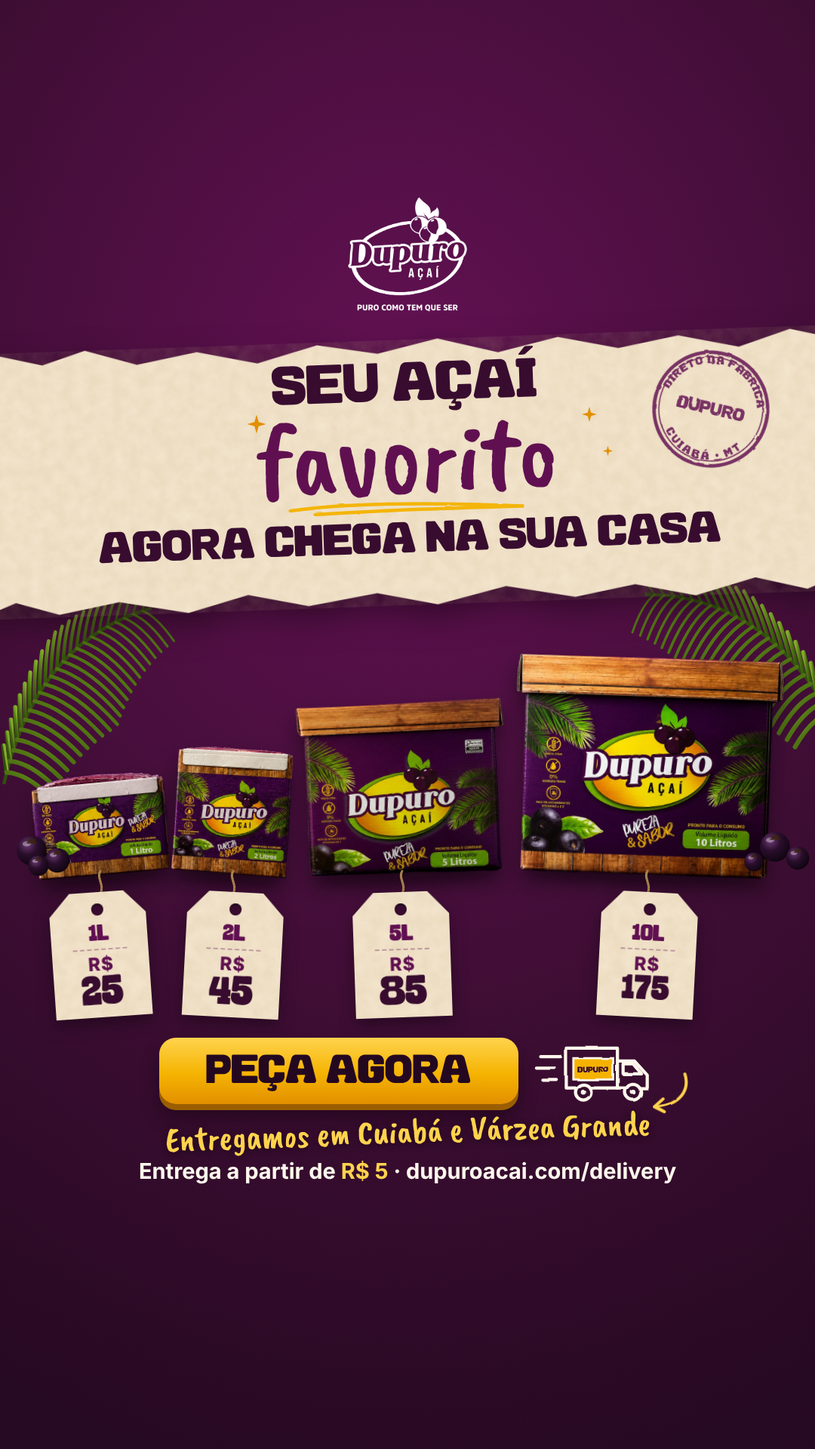
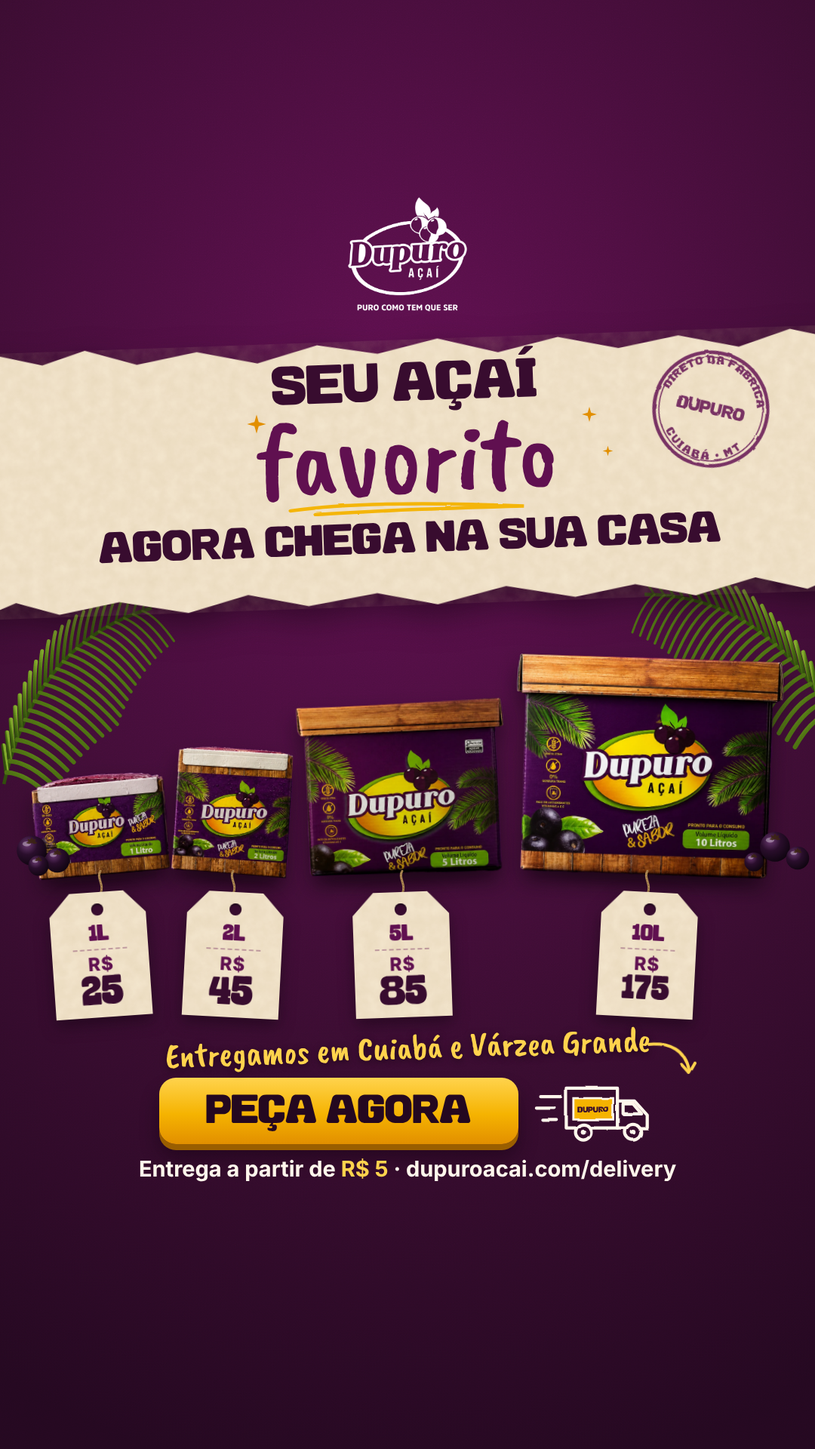
Anúncio v2: frase da área de entrega acima do 'Peça agora', seta até o caminhão
Claude-Session: https://claude.ai/code/session_01FD3K2dUiQKyTzg2suxj9tU

Changed region(s): [[0.1833, 0.6875, 0.8556, 0.8125]]

diff --git a/marketing/anuncios/delivery-v2/story.html b/marketing/anuncios/delivery-v2/story.html
@@ -20,7 +20,7 @@
  </g></svg>
 <svg class="folha" style="left:-30px;top:770px;width:340px;height:340px;transform:rotate(-8deg) scaleX(1)" viewBox="-20 -20 300 300"><defs><linearGradient id="gf" x1="0" y1="1" x2="1" y2="0"><stop offset="0" stop-color="#2F4A0C"/><stop offset=".55" stop-color="#4D7012"/><stop offset="1" stop-color="#7FA82B"/></linearGradient></defs><path d="M0,200 Q60,40 200,20" stroke="#2F4A0C" stroke-width="4" fill="none"/><path d="M5.1,186.9 Q5.5,166.6 5.8,155.4" stroke="url(#gf)" stroke-width="5.4" fill="none" stroke-linecap="round"/><path d="M5.1,186.9 Q27.8,191.5 50.5,221.2" stroke="url(#gf)" stroke-width="5.4" fill="none" stroke-linecap="round"/><path d="M10.6,174.3 Q11.3,152.4 12.1,140.7" stroke="url(#gf)" stroke-width="5.2" fill="none" stroke-linecap="round"/><path d="M10.6,174.3 Q34.6,179.9 58.7,211.5" stroke="url(#gf)" stroke-width="5.2" fill="none" stroke-linecap="round"/><path d="M16.2,162.2 Q17.4,138.7 18.6,126.5" stroke="url(#gf)" stroke-width="5.1" fill="none" stroke-linecap="round"/><path d="M16.2,162.2 Q41.6,168.7 67.0,202.5" stroke="url(#gf)" stroke-width="5.1" fill="none" stroke-linecap="round"/><path d="M22.2,150.6 Q23.9,125.5 25.6,112.8" stroke="url(#gf)" stroke-width="5.0" fill="none" stroke-linecap="round"/><path d="M22.2,150.6 Q48.9,158.1 75.6,194.0" stroke="url(#gf)" stroke-width="5.0" fill="none" stroke-linecap="round"/><path d="M28.5,139.4 Q30.7,112.8 32.9,99.7" stroke="url(#gf)" stroke-width="4.9" fill="none" stroke-linecap="round"/><path d="M28.5,139.4 Q56.5,148.0 84.5,186.0" stroke="url(#gf)" stroke-width="4.9" fill="none" stroke-linecap="round"/><path d="M35.0,128.8 Q37.8,100.6 40.6,87.0" stroke="url(#gf)" stroke-width="4.8" fill="none" stroke-linecap="round"/><path d="M35.0,128.8 Q64.3,138.4 93.5,178.7" stroke="url(#gf)" stroke-width="4.8" fill="none" stroke-linecap="round"/><path d="M41.8,118.6 Q45.3,88.8 48.7,74.9" stroke="url(#gf)" stroke-width="4.6" fill="none" stroke-linecap="round"/><path d="M41.8,118.6 Q72.3,129.4 102.8,171.9" stroke="url(#gf)" stroke-width="4.6" fill="none" stroke-linecap="round"/><path d="M48.9,108.9 Q53.0,77.6 57.1,63.2" stroke="url(#gf)" stroke-width="4.5" fill="none" stroke-linecap="round"/><path d="M48.9,108.9 Q80.6,120.8 112.4,165.6" stroke="url(#gf)" stroke-width="4.5" fill="none" stroke-linecap="round"/><path d="M56.2,99.7 Q61.1,66.9 65.9,52.1" stroke="url(#gf)" stroke-width="4.4" fill="none" stroke-linecap="round"/><path d="M56.2,99.7 Q89.2,112.8 122.1,159.9" stroke="url(#gf)" stroke-width="4.4" fill="none" stroke-linecap="round"/><path d="M63.9,91.0 Q69.5,56.7 75.1,41.5" stroke="url(#gf)" stroke-width="4.2" fill="none" stroke-linecap="round"/><path d="M63.9,91.0 Q98.0,105.3 132.0,154.8" stroke="url(#gf)" stroke-width="4.2" fill="none" stroke-linecap="round"/><path d="M71.8,82.7 Q78.1,47.6 84.4,32.2" stroke="url(#gf)" stroke-width="4.1" fill="none" stroke-linecap="round"/><path d="M71.8,82.7 Q106.5,98.1 141.1,149.2" stroke="url(#gf)" stroke-width="4.1" fill="none" stroke-linecap="round"/><path d="M80.0,75.0 Q86.6,41.5 93.2,26.7" stroke="url(#gf)" stroke-width="4.0" fill="none" stroke-linecap="round"/><path d="M80.0,75.0 Q113.0,90.0 145.9,139.7" stroke="url(#gf)" stroke-width="4.0" fill="none" stroke-linecap="round"/><path d="M88.5,67.7 Q95.3,35.9 102.2,21.6" stroke="url(#gf)" stroke-width="3.9" fill="none" stroke-linecap="round"/><path d="M88.5,67.7 Q119.8,82.4 151.1,130.7" stroke="url(#gf)" stroke-width="3.9" fill="none" stroke-linecap="round"/><path d="M97.2,61.0 Q104.3,30.8 111.3,17.1" stroke="url(#gf)" stroke-width="3.8" fill="none" stroke-linecap="round"/><path d="M97.2,61.0 Q126.9,75.3 156.6,122.0" stroke="url(#gf)" stroke-width="3.8" fill="none" stroke-linecap="round"/><path d="M106.2,54.7 Q113.4,26.2 120.6,13.0" stroke="url(#gf)" stroke-width="3.6" fill="none" stroke-linecap="round"/><path d="M106.2,54.7 Q134.3,68.6 162.4,113.7" stroke="url(#gf)" stroke-width="3.6" fill="none" stroke-linecap="round"/><path d="M115.6,48.9 Q122.9,22.1 130.2,9.4" stroke="url(#gf)" stroke-width="3.5" fill="none" stroke-linecap="round"/><path d="M115.6,48.9 Q142.0,62.3 168.5,105.8" stroke="url(#gf)" stroke-width="3.5" fill="none" stroke-linecap="round"/><path d="M125.1,43.6 Q132.5,18.4 139.9,6.3" stroke="url(#gf)" stroke-width="3.4" fill="none" stroke-linecap="round"/><path d="M125.1,43.6 Q150.0,56.5 174.9,98.4" stroke="url(#gf)" stroke-width="3.4" fill="none" stroke-linecap="round"/><path d="M135.0,38.8 Q142.4,15.3 149.7,3.7" stroke="url(#gf)" stroke-width="3.2" fill="none" stroke-linecap="round"/><path d="M135.0,38.8 Q158.3,51.1 181.6,91.3" stroke="url(#gf)" stroke-width="3.2" fill="none" stroke-linecap="round"/><path d="M145.1,34.4 Q152.5,12.6 159.8,1.5" stroke="url(#gf)" stroke-width="3.1" fill="none" stroke-linecap="round"/><path d="M145.1,34.4 Q166.9,46.1 188.7,84.6" stroke="url(#gf)" stroke-width="3.1" fill="none" stroke-linecap="round"/><path d="M155.6,30.6 Q162.8,10.4 170.0,-0.1" stroke="url(#gf)" stroke-width="3.0" fill="none" stroke-linecap="round"/><path d="M155.6,30.6 Q175.8,41.6 196.0,78.4" stroke="url(#gf)" stroke-width="3.0" fill="none" stroke-linecap="round"/><path d="M166.2,27.2 Q173.4,8.6 180.5,-1.4" stroke="url(#gf)" stroke-width="2.9" fill="none" stroke-linecap="round"/><path d="M166.2,27.2 Q185.0,37.6 203.8,72.5" stroke="url(#gf)" stroke-width="2.9" fill="none" stroke-linecap="round"/><path d="M177.2,24.3 Q184.2,7.4 191.1,-2.1" stroke="url(#gf)" stroke-width="2.8" fill="none" stroke-linecap="round"/><path d="M177.2,24.3 Q194.5,34.0 211.8,67.1" stroke="url(#gf)" stroke-width="2.8" fill="none" stroke-linecap="round"/><path d="M188.5,21.9 Q195.2,6.6 201.9,-2.4" stroke="url(#gf)" stroke-width="2.6" fill="none" stroke-linecap="round"/><path d="M188.5,21.9 Q204.3,30.8 220.2,62.0" stroke="url(#gf)" stroke-width="2.6" fill="none" stroke-linecap="round"/></svg><svg class="folha" style="left:780px;top:730px;width:340px;height:340px;transform:rotate(-8deg) scaleX(-1)" viewBox="-20 -20 300 300"><defs><linearGradient id="gf" x1="0" y1="1" x2="1" y2="0"><stop offset="0" stop-color="#2F4A0C"/><stop offset=".55" stop-color="#4D7012"/><stop offset="1" stop-color="#7FA82B"/></linearGradient></defs><path d="M0,200 Q60,40 200,20" stroke="#2F4A0C" stroke-width="4" fill="none"/><path d="M5.1,186.9 Q5.5,166.6 5.8,155.4" stroke="url(#gf)" stroke-width="5.4" fill="none" stroke-linecap="round"/><path d="M5.1,186.9 Q27.8,191.5 50.5,221.2" stroke="url(#gf)" stroke-width="5.4" fill="none" stroke-linecap="round"/><path d="M10.6,174.3 Q11.3,152.4 12.1,140.7" stroke="url(#gf)" stroke-width="5.2" fill="none" stroke-linecap="round"/><path d="M10.6,174.3 Q34.6,179.9 58.7,211.5" stroke="url(#gf)" stroke-width="5.2" fill="none" stroke-linecap="round"/><path d="M16.2,162.2 Q17.4,138.7 18.6,126.5" stroke="url(#gf)" stroke-width="5.1" fill="none" stroke-linecap="round"/><path d="M16.2,162.2 Q41.6,168.7 67.0,202.5" stroke="url(#gf)" stroke-width="5.1" fill="none" stroke-linecap="round"/><path d="M22.2,150.6 Q23.9,125.5 25.6,112.8" stroke="url(#gf)" stroke-width="5.0" fill="none" stroke-linecap="round"/><path d="M22.2,150.6 Q48.9,158.1 75.6,194.0" stroke="url(#gf)" stroke-width="5.0" fill="none" stroke-linecap="round"/><path d="M28.5,139.4 Q30.7,112.8 32.9,99.7" stroke="url(#gf)" stroke-width="4.9" fill="none" stroke-linecap="round"/><path d="M28.5,139.4 Q56.5,148.0 84.5,186.0" stroke="url(#gf)" stroke-width="4.9" fill="none" stroke-linecap="round"/><path d="M35.0,128.8 Q37.8,100.6 40.6,87.0" stroke="url(#gf)" stroke-width="4.8" fill="none" stroke-linecap="round"/><path d="M35.0,128.8 Q64.3,138.4 93.5,178.7" stroke="url(#gf)" stroke-width="4.8" fill="none" stroke-linecap="round"/><path d="M41.8,118.6 Q45.3,88.8 48.7,74.9" stroke="url(#gf)" stroke-width="4.6" fill="none" stroke-linecap="round"/><path d="M41.8,118.6 Q72.3,129.4 102.8,171.9" stroke="url(#gf)" stroke-width="4.6" fill="none" stroke-linecap="round"/><path d="M48.9,108.9 Q53.0,77.6 57.1,63.2" stroke="url(#gf)" stroke-width="4.5" fill="none" stroke-linecap="round"/><path d="M48.9,108.9 Q80.6,120.8 112.4,165.6" stroke="url(#gf)" stroke-width="4.5" fill="none" stroke-linecap="round"/><path d="M56.2,99.7 Q61.1,66.9 65.9,52.1" stroke="url(#gf)" stroke-width="4.4" fill="none" stroke-linecap="round"/><path d="M56.2,99.7 Q89.2,112.8 122.1,159.9" stroke="url(#gf)" stroke-width="4.4" fill="none" stroke-linecap="round"/><path d="M63.9,91.0 Q69.5,56.7 75.1,41.5" stroke="url(#gf)" stroke-width="4.2" fill="none" stroke-linecap="round"/><path d="M63.9,91.0 Q98.0,105.3 132.0,154.8" stroke="url(#gf)" stroke-width="4.2" fill="none" stroke-linecap="round"/><path d="M71.8,82.7 Q78.1,47.6 84.4,32.2" stroke="url(#gf)" stroke-width="4.1" fill="none" stroke-linecap="round"/><path d="M71.8,82.7 Q106.5,98.1 141.1,149.2" stroke="url(#gf)" stroke-width="4.1" fill="none" stroke-linecap="round"/><path d="M80.0,75.0 Q86.6,41.5 93.2,26.7" stroke="url(#gf)" stroke-width="4.0" fill="none" stroke-linecap="round"/><path d="M80.0,75.0 Q113.0,90.0 145.9,139.7" stroke="url(#gf)" stroke-width="4.0" fill="none" stroke-linecap="round"/><path d="M88.5,67.7 Q95.3,35.9 102.2,21.6" stroke="url(#gf)" stroke-width="3.9" fill="none" stroke-linecap="round"/><path d="M88.5,67.7 Q119.8,82.4 151.1,130.7" stroke="url(#gf)" stroke-width="3.9" fill="none" stroke-linecap="round"/><path d="M97.2,61.0 Q104.3,30.8 111.3,17.1" stroke="url(#gf)" stroke-width="3.8" fill="none" stroke-linecap="round"/><path d="M97.2,61.0 Q126.9,75.3 156.6,122.0" stroke="url(#gf)" stroke-width="3.8" fill="none" stroke-linecap="round"/><path d="M106.2,54.7 Q113.4,26.2 120.6,13.0" stroke="url(#gf)" stroke-width="3.6" fill="none" stroke-linecap="round"/><path d="M106.2,54.7 Q134.3,68.6 162.4,113.7" stroke="url(#gf)" stroke-width="3.6" fill="none" stroke-linecap="round"/><path d="M115.6,48.9 Q122.9,22.1 130.2,9.4" stroke="url(#gf)" stroke-width="3.5" fill="none" stroke-linecap="round"/><path d="M115.6,48.9 Q142.0,62.3 168.5,105.8" stroke="url(#gf)" stroke-width="3.5" fill="none" stroke-linecap="round"/><path d="M125.1,43.6 Q132.5,18.4 139.9,6.3" stroke="url(#gf)" stroke-width="3.4" fill="none" stroke-linecap="round"/><path d="M125.1,43.6 Q150.0,56.5 174.9,98.4" stroke="url(#gf)" stroke-width="3.4" fill="none" stroke-linecap="round"/><path d="M135.0,38.8 Q142.4,15.3 149.7,3.7" stroke="url(#gf)" stroke-width="3.2" fill="none" stroke-linecap="round"/><path d="M135.0,38.8 Q158.3,51.1 181.6,91.3" stroke="url(#gf)" stroke-width="3.2" fill="none" stroke-linecap="round"/><path d="M145.1,34.4 Q152.5,12.6 159.8,1.5" stroke="url(#gf)" stroke-width="3.1" fill="none" stroke-linecap="round"/><path d="M145.1,34.4 Q166.9,46.1 188.7,84.6" stroke="url(#gf)" stroke-width="3.1" fill="none" stroke-linecap="round"/><path d="M155.6,30.6 Q162.8,10.4 170.0,-0.1" stroke="url(#gf)" stroke-width="3.0" fill="none" stroke-linecap="round"/><path d="M155.6,30.6 Q175.8,41.6 196.0,78.4" stroke="url(#gf)" stroke-width="3.0" fill="none" stroke-linecap="round"/><path d="M166.2,27.2 Q173.4,8.6 180.5,-1.4" stroke="url(#gf)" stroke-width="2.9" fill="none" stroke-linecap="round"/><path d="M166.2,27.2 Q185.0,37.6 203.8,72.5" stroke="url(#gf)" stroke-width="2.9" fill="none" stroke-linecap="round"/><path d="M177.2,24.3 Q184.2,7.4 191.1,-2.1" stroke="url(#gf)" stroke-width="2.8" fill="none" stroke-linecap="round"/><path d="M177.2,24.3 Q194.5,34.0 211.8,67.1" stroke="url(#gf)" stroke-width="2.8" fill="none" stroke-linecap="round"/><path d="M188.5,21.9 Q195.2,6.6 201.9,-2.4" stroke="url(#gf)" stroke-width="2.6" fill="none" stroke-linecap="round"/><path d="M188.5,21.9 Q204.3,30.8 220.2,62.0" stroke="url(#gf)" stroke-width="2.6" fill="none" stroke-linecap="round"/></svg><svg class="fruto" style="left:20px;top:1105px;width:44px;height:44px" viewBox="0 0 40 40"><defs><radialGradient id="gb" cx=".35" cy=".3" r=".75"><stop offset="0" stop-color="#6B3A72"/><stop offset=".45" stop-color="#2A0E2C"/><stop offset="1" stop-color="#0E040F"/></radialGradient></defs><circle cx="20" cy="20" r="18" fill="url(#gb)"/><ellipse cx="14" cy="12" rx="5" ry="3" fill="#fff" opacity=".35"/><path d="M20,4 l2,3 l3,-1 l-1,3 l3,2 l-4,1 l-3,-1 l-3,1 l-4,-1 l3,-2 l-1,-3 l3,1 z" fill="#3B2410" opacity=".85"/></svg><svg class="fruto" style="left:58px;top:1122px;width:36px;height:36px" viewBox="0 0 40 40"><defs><radialGradient id="gb" cx=".35" cy=".3" r=".75"><stop offset="0" stop-color="#6B3A72"/><stop offset=".45" stop-color="#2A0E2C"/><stop offset="1" stop-color="#0E040F"/></radialGradient></defs><circle cx="20" cy="20" r="18" fill="url(#gb)"/><ellipse cx="14" cy="12" rx="5" ry="3" fill="#fff" opacity=".35"/><path d="M20,4 l2,3 l3,-1 l-1,3 l3,2 l-4,1 l-3,-1 l-3,1 l-4,-1 l3,-2 l-1,-3 l3,1 z" fill="#3B2410" opacity=".85"/></svg><svg class="fruto" style="left:36px;top:1132px;width:30px;height:30px" viewBox="0 0 40 40"><defs><radialGradient id="gb" cx=".35" cy=".3" r=".75"><stop offset="0" stop-color="#6B3A72"/><stop offset=".45" stop-color="#2A0E2C"/><stop offset="1" stop-color="#0E040F"/></radialGradient></defs><circle cx="20" cy="20" r="18" fill="url(#gb)"/><ellipse cx="14" cy="12" rx="5" ry="3" fill="#fff" opacity=".35"/><path d="M20,4 l2,3 l3,-1 l-1,3 l3,2 l-4,1 l-3,-1 l-3,1 l-4,-1 l3,-2 l-1,-3 l3,1 z" fill="#3B2410" opacity=".85"/></svg><svg class="fruto" style="left:1005px;top:1100px;width:44px;height:44px" viewBox="0 0 40 40"><defs><radialGradient id="gb" cx=".35" cy=".3" r=".75"><stop offset="0" stop-color="#6B3A72"/><stop offset=".45" stop-color="#2A0E2C"/><stop offset="1" stop-color="#0E040F"/></radialGradient></defs><circle cx="20" cy="20" r="18" fill="url(#gb)"/><ellipse cx="14" cy="12" rx="5" ry="3" fill="#fff" opacity=".35"/><path d="M20,4 l2,3 l3,-1 l-1,3 l3,2 l-4,1 l-3,-1 l-3,1 l-4,-1 l3,-2 l-1,-3 l3,1 z" fill="#3B2410" opacity=".85"/></svg><svg class="fruto" style="left:1040px;top:1120px;width:34px;height:34px" viewBox="0 0 40 40"><defs><radialGradient id="gb" cx=".35" cy=".3" r=".75"><stop offset="0" stop-color="#6B3A72"/><stop offset=".45" stop-color="#2A0E2C"/><stop offset="1" stop-color="#0E040F"/></radialGradient></defs><circle cx="20" cy="20" r="18" fill="url(#gb)"/><ellipse cx="14" cy="12" rx="5" ry="3" fill="#fff" opacity=".35"/><path d="M20,4 l2,3 l3,-1 l-1,3 l3,2 l-4,1 l-3,-1 l-3,1 l-4,-1 l3,-2 l-1,-3 l3,1 z" fill="#3B2410" opacity=".85"/></svg><svg class="fruto" style="left:985px;top:1128px;width:28px;height:28px" viewBox="0 0 40 40"><defs><radialGradient id="gb" cx=".35" cy=".3" r=".75"><stop offset="0" stop-color="#6B3A72"/><stop offset=".45" stop-color="#2A0E2C"/><stop offset="1" stop-color="#0E040F"/></radialGradient></defs><circle cx="20" cy="20" r="18" fill="url(#gb)"/><ellipse cx="14" cy="12" rx="5" ry="3" fill="#fff" opacity=".35"/><path d="M20,4 l2,3 l3,-1 l-1,3 l3,2 l-4,1 l-3,-1 l-3,1 l-4,-1 l3,-2 l-1,-3 l3,1 z" fill="#3B2410" opacity=".85"/></svg>
 <div class="fila"><div class="item i1"><div class="caixa"><img src="../briefing-delivery/material/caixa-1l-estudio-recorte.webp" alt="Caixa 1 litro"><div class="sombra"></div></div><svg class="barbante" viewBox="0 0 30 40" preserveAspectRatio="none"><path d="M15,0 C 9,12 21,24 15,40" stroke="#B08A55" stroke-width="3" fill="none" stroke-linecap="round"/><path d="M15,0 C 9,12 21,24 15,40" stroke="#7A5A30" stroke-width="1" stroke-dasharray="2 3" fill="none"/></svg><div class="etiqueta"><div class="corpo"></div><svg class="fibra2" xmlns="http://www.w3.org/2000/svg" preserveAspectRatio="none"><filter id="f1"><feTurbulence type="fractalNoise" baseFrequency="0.06" numOctaves="4" seed="5"/><feColorMatrix values="0 0 0 0 0.55  0 0 0 0 0.42  0 0 0 0 0.25  0 0 0 0.55 0"/></filter><rect width="100%" height="100%" filter="url(#f1)"/></svg><div class="furo"></div><div class="preco"><span class="lit">1L</span><span class="rs">R$</span><span class="num">25</span></div></div></div><div class="item i2"><div class="caixa"><img src="../briefing-delivery/material/caixa-2l-estudio-recorte.webp" alt="Caixa 2 litros"><div class="sombra"></div></div><svg class="barbante" viewBox="0 0 30 40" preserveAspectRatio="none"><path d="M15,0 C 9,12 21,24 15,40" stroke="#B08A55" stroke-width="3" fill="none" stroke-linecap="round"/><path d="M15,0 C 9,12 21,24 15,40" stroke="#7A5A30" stroke-width="1" stroke-dasharray="2 3" fill="none"/></svg><div class="etiqueta"><div class="corpo"></div><svg class="fibra2" xmlns="http://www.w3.org/2000/svg" preserveAspectRatio="none"><filter id="f2"><feTurbulence type="fractalNoise" baseFrequency="0.06" numOctaves="4" seed="6"/><feColorMatrix values="0 0 0 0 0.55  0 0 0 0 0.42  0 0 0 0 0.25  0 0 0 0.55 0"/></filter><rect width="100%" height="100%" filter="url(#f2)"/></svg><div class="furo"></div><div class="preco"><span class="lit">2L</span><span class="rs">R$</span><span class="num">45</span></div></div></div><div class="item i5"><div class="caixa"><img src="../briefing-delivery/material/caixa-5l-estudio-recorte.webp" alt="Caixa 5 litros"><div class="sombra"></div></div><svg class="barbante" viewBox="0 0 30 40" preserveAspectRatio="none"><path d="M15,0 C 9,12 21,24 15,40" stroke="#B08A55" stroke-width="3" fill="none" stroke-linecap="round"/><path d="M15,0 C 9,12 21,24 15,40" stroke="#7A5A30" stroke-width="1" stroke-dasharray="2 3" fill="none"/></svg><div class="etiqueta"><div class="corpo"></div><svg class="fibra2" xmlns="http://www.w3.org/2000/svg" preserveAspectRatio="none"><filter id="f5"><feTurbulence type="fractalNoise" baseFrequency="0.06" numOctaves="4" seed="9"/><feColorMatrix values="0 0 0 0 0.55  0 0 0 0 0.42  0 0 0 0 0.25  0 0 0 0.55 0"/></filter><rect width="100%" height="100%" filter="url(#f5)"/></svg><div class="furo"></div><div class="preco"><span class="lit">5L</span><span class="rs">R$</span><span class="num">85</span></div></div></div><div class="item i10"><div class="caixa"><img src="../briefing-delivery/material/caixa-10l-estudio-recorte.webp" alt="Caixa 10 litros"><div class="sombra"></div></div><svg class="barbante" viewBox="0 0 30 40" preserveAspectRatio="none"><path d="M15,0 C 9,12 21,24 15,40" stroke="#B08A55" stroke-width="3" fill="none" stroke-linecap="round"/><path d="M15,0 C 9,12 21,24 15,40" stroke="#7A5A30" stroke-width="1" stroke-dasharray="2 3" fill="none"/></svg><div class="etiqueta"><div class="corpo"></div><svg class="fibra2" xmlns="http://www.w3.org/2000/svg" preserveAspectRatio="none"><filter id="f10"><feTurbulence type="fractalNoise" baseFrequency="0.06" numOctaves="4" seed="14"/><feColorMatrix values="0 0 0 0 0.55  0 0 0 0 0.42  0 0 0 0 0.25  0 0 0 0.55 0"/></filter><rect width="100%" height="100%" filter="url(#f10)"/></svg><div class="furo"></div><div class="preco"><span class="lit">10L</span><span class="rs">R$</span><span class="num tres">175</span></div></div></div></div>
-<div class="rodape"><div class="linha-cta"><span class="cta">Peça agora</span><svg class="caminhao" viewBox="0 0 170 100" xmlns="http://www.w3.org/2000/svg"><defs><filter id="mao2"><feTurbulence type="fractalNoise" baseFrequency="0.035" numOctaves="2" seed="5" result="d"/><feDisplacementMap in="SourceGraphic" in2="d" scale="3.5"/></filter></defs>
+<div class="rodape"><div class="area">Entregamos em Cuiabá e Várzea Grande<svg class="seta" style="right:-62px;top:22px" viewBox="0 0 70 56"><path d="M6,8 C 34,6 54,18 58,44" stroke="#FFD34D" stroke-width="4" fill="none" stroke-linecap="round" filter="url(#mao3)"/><path d="M48,36 L58,48 L66,35" stroke="#FFD34D" stroke-width="4" fill="none" stroke-linecap="round" stroke-linejoin="round" filter="url(#mao3)"/><defs><filter id="mao3"><feTurbulence type="fractalNoise" baseFrequency="0.05" numOctaves="2" seed="11" result="d"/><feDisplacementMap in="SourceGraphic" in2="d" scale="2.5"/></filter></defs></svg></div><div class="linha-cta"><span class="cta">Peça agora</span><svg class="caminhao" viewBox="0 0 170 100" xmlns="http://www.w3.org/2000/svg"><defs><filter id="mao2"><feTurbulence type="fractalNoise" baseFrequency="0.035" numOctaves="2" seed="5" result="d"/><feDisplacementMap in="SourceGraphic" in2="d" scale="3.5"/></filter></defs>
  <g filter="url(#mao2)" fill="none" stroke="#FFF7EC" stroke-width="4.5" stroke-linecap="round" stroke-linejoin="round">
   <path d="M8,30 h28 M2,46 h26 M10,62 h20"/>
   <path d="M44,18 h72 v56 h-72 z"/>
@@ -30,5 +30,5 @@
   <circle cx="68" cy="80" r="3.5" fill="#FFF7EC" stroke="none"/><circle cx="138" cy="80" r="3.5" fill="#FFF7EC" stroke="none"/>
  </g>
  <g filter="url(#mao2)"><path d="M54,32 h56 v30 h-56 z" fill="#F5B301" stroke="#FFF7EC" stroke-width="3"/>
- <text x="82" y="52" text-anchor="middle" font-family="Klinko" font-size="10.5" fill="#380C2F">DUPURO</text></g></svg></div><div class="area">Entregamos em Cuiabá e Várzea Grande<svg class="seta" style="right:-58px;top:-44px" viewBox="0 0 70 56"><path d="M60,4 C 66,26 52,44 22,46" stroke="#FFD34D" stroke-width="4" fill="none" stroke-linecap="round" filter="url(#mao3)"/><path d="M30,36 L18,46 L31,53" stroke="#FFD34D" stroke-width="4" fill="none" stroke-linecap="round" stroke-linejoin="round" filter="url(#mao3)"/><defs><filter id="mao3"><feTurbulence type="fractalNoise" baseFrequency="0.05" numOctaves="2" seed="11" result="d"/><feDisplacementMap in="SourceGraphic" in2="d" scale="2.5"/></filter></defs></svg></div><div class="info">Entrega a partir de <i>R$ 5</i> · dupuroacai.com/delivery</div></div>
+ <text x="82" y="52" text-anchor="middle" font-family="Klinko" font-size="10.5" fill="#380C2F">DUPURO</text></g></svg></div><div class="info">Entrega a partir de <i>R$ 5</i> · dupuroacai.com/delivery</div></div>
 </body></html>

diff --git a/marketing/anuncios/delivery-v2/feed.html b/marketing/anuncios/delivery-v2/feed.html
@@ -20,7 +20,7 @@
  </g></svg>
 <svg class="folha" style="left:-30px;top:568px;width:320px;height:320px;transform:rotate(-8deg) scaleX(1)" viewBox="-20 -20 300 300"><defs><linearGradient id="gf" x1="0" y1="1" x2="1" y2="0"><stop offset="0" stop-color="#2F4A0C"/><stop offset=".55" stop-color="#4D7012"/><stop offset="1" stop-color="#7FA82B"/></linearGradient></defs><path d="M0,200 Q60,40 200,20" stroke="#2F4A0C" stroke-width="4" fill="none"/><path d="M5.1,186.9 Q5.5,166.6 5.8,155.4" stroke="url(#gf)" stroke-width="5.4" fill="none" stroke-linecap="round"/><path d="M5.1,186.9 Q27.8,191.5 50.5,221.2" stroke="url(#gf)" stroke-width="5.4" fill="none" stroke-linecap="round"/><path d="M10.6,174.3 Q11.3,152.4 12.1,140.7" stroke="url(#gf)" stroke-width="5.2" fill="none" stroke-linecap="round"/><path d="M10.6,174.3 Q34.6,179.9 58.7,211.5" stroke="url(#gf)" stroke-width="5.2" fill="none" stroke-linecap="round"/><path d="M16.2,162.2 Q17.4,138.7 18.6,126.5" stroke="url(#gf)" stroke-width="5.1" fill="none" stroke-linecap="round"/><path d="M16.2,162.2 Q41.6,168.7 67.0,202.5" stroke="url(#gf)" stroke-width="5.1" fill="none" stroke-linecap="round"/><path d="M22.2,150.6 Q23.9,125.5 25.6,112.8" stroke="url(#gf)" stroke-width="5.0" fill="none" stroke-linecap="round"/><path d="M22.2,150.6 Q48.9,158.1 75.6,194.0" stroke="url(#gf)" stroke-width="5.0" fill="none" stroke-linecap="round"/><path d="M28.5,139.4 Q30.7,112.8 32.9,99.7" stroke="url(#gf)" stroke-width="4.9" fill="none" stroke-linecap="round"/><path d="M28.5,139.4 Q56.5,148.0 84.5,186.0" stroke="url(#gf)" stroke-width="4.9" fill="none" stroke-linecap="round"/><path d="M35.0,128.8 Q37.8,100.6 40.6,87.0" stroke="url(#gf)" stroke-width="4.8" fill="none" stroke-linecap="round"/><path d="M35.0,128.8 Q64.3,138.4 93.5,178.7" stroke="url(#gf)" stroke-width="4.8" fill="none" stroke-linecap="round"/><path d="M41.8,118.6 Q45.3,88.8 48.7,74.9" stroke="url(#gf)" stroke-width="4.6" fill="none" stroke-linecap="round"/><path d="M41.8,118.6 Q72.3,129.4 102.8,171.9" stroke="url(#gf)" stroke-width="4.6" fill="none" stroke-linecap="round"/><path d="M48.9,108.9 Q53.0,77.6 57.1,63.2" stroke="url(#gf)" stroke-width="4.5" fill="none" stroke-linecap="round"/><path d="M48.9,108.9 Q80.6,120.8 112.4,165.6" stroke="url(#gf)" stroke-width="4.5" fill="none" stroke-linecap="round"/><path d="M56.2,99.7 Q61.1,66.9 65.9,52.1" stroke="url(#gf)" stroke-width="4.4" fill="none" stroke-linecap="round"/><path d="M56.2,99.7 Q89.2,112.8 122.1,159.9" stroke="url(#gf)" stroke-width="4.4" fill="none" stroke-linecap="round"/><path d="M63.9,91.0 Q69.5,56.7 75.1,41.5" stroke="url(#gf)" stroke-width="4.2" fill="none" stroke-linecap="round"/><path d="M63.9,91.0 Q98.0,105.3 132.0,154.8" stroke="url(#gf)" stroke-width="4.2" fill="none" stroke-linecap="round"/><path d="M71.8,82.7 Q78.1,47.6 84.4,32.2" stroke="url(#gf)" stroke-width="4.1" fill="none" stroke-linecap="round"/><path d="M71.8,82.7 Q106.5,98.1 141.1,149.2" stroke="url(#gf)" stroke-width="4.1" fill="none" stroke-linecap="round"/><path d="M80.0,75.0 Q86.6,41.5 93.2,26.7" stroke="url(#gf)" stroke-width="4.0" fill="none" stroke-linecap="round"/><path d="M80.0,75.0 Q113.0,90.0 145.9,139.7" stroke="url(#gf)" stroke-width="4.0" fill="none" stroke-linecap="round"/><path d="M88.5,67.7 Q95.3,35.9 102.2,21.6" stroke="url(#gf)" stroke-width="3.9" fill="none" stroke-linecap="round"/><path d="M88.5,67.7 Q119.8,82.4 151.1,130.7" stroke="url(#gf)" stroke-width="3.9" fill="none" stroke-linecap="round"/><path d="M97.2,61.0 Q104.3,30.8 111.3,17.1" stroke="url(#gf)" stroke-width="3.8" fill="none" stroke-linecap="round"/><path d="M97.2,61.0 Q126.9,75.3 156.6,122.0" stroke="url(#gf)" stroke-width="3.8" fill="none" stroke-linecap="round"/><path d="M106.2,54.7 Q113.4,26.2 120.6,13.0" stroke="url(#gf)" stroke-width="3.6" fill="none" stroke-linecap="round"/><path d="M106.2,54.7 Q134.3,68.6 162.4,113.7" stroke="url(#gf)" stroke-width="3.6" fill="none" stroke-linecap="round"/><path d="M115.6,48.9 Q122.9,22.1 130.2,9.4" stroke="url(#gf)" stroke-width="3.5" fill="none" stroke-linecap="round"/><path d="M115.6,48.9 Q142.0,62.3 168.5,105.8" stroke="url(#gf)" stroke-width="3.5" fill="none" stroke-linecap="round"/><path d="M125.1,43.6 Q132.5,18.4 139.9,6.3" stroke="url(#gf)" stroke-width="3.4" fill="none" stroke-linecap="round"/><path d="M125.1,43.6 Q150.0,56.5 174.9,98.4" stroke="url(#gf)" stroke-width="3.4" fill="none" stroke-linecap="round"/><path d="M135.0,38.8 Q142.4,15.3 149.7,3.7" stroke="url(#gf)" stroke-width="3.2" fill="none" stroke-linecap="round"/><path d="M135.0,38.8 Q158.3,51.1 181.6,91.3" stroke="url(#gf)" stroke-width="3.2" fill="none" stroke-linecap="round"/><path d="M145.1,34.4 Q152.5,12.6 159.8,1.5" stroke="url(#gf)" stroke-width="3.1" fill="none" stroke-linecap="round"/><path d="M145.1,34.4 Q166.9,46.1 188.7,84.6" stroke="url(#gf)" stroke-width="3.1" fill="none" stroke-linecap="round"/><path d="M155.6,30.6 Q162.8,10.4 170.0,-0.1" stroke="url(#gf)" stroke-width="3.0" fill="none" stroke-linecap="round"/><path d="M155.6,30.6 Q175.8,41.6 196.0,78.4" stroke="url(#gf)" stroke-width="3.0" fill="none" stroke-linecap="round"/><path d="M166.2,27.2 Q173.4,8.6 180.5,-1.4" stroke="url(#gf)" stroke-width="2.9" fill="none" stroke-linecap="round"/><path d="M166.2,27.2 Q185.0,37.6 203.8,72.5" stroke="url(#gf)" stroke-width="2.9" fill="none" stroke-linecap="round"/><path d="M177.2,24.3 Q184.2,7.4 191.1,-2.1" stroke="url(#gf)" stroke-width="2.8" fill="none" stroke-linecap="round"/><path d="M177.2,24.3 Q194.5,34.0 211.8,67.1" stroke="url(#gf)" stroke-width="2.8" fill="none" stroke-linecap="round"/><path d="M188.5,21.9 Q195.2,6.6 201.9,-2.4" stroke="url(#gf)" stroke-width="2.6" fill="none" stroke-linecap="round"/><path d="M188.5,21.9 Q204.3,30.8 220.2,62.0" stroke="url(#gf)" stroke-width="2.6" fill="none" stroke-linecap="round"/></svg><svg class="folha" style="left:800px;top:528px;width:320px;height:320px;transform:rotate(-8deg) scaleX(-1)" viewBox="-20 -20 300 300"><defs><linearGradient id="gf" x1="0" y1="1" x2="1" y2="0"><stop offset="0" stop-color="#2F4A0C"/><stop offset=".55" stop-color="#4D7012"/><stop offset="1" stop-color="#7FA82B"/></linearGradient></defs><path d="M0,200 Q60,40 200,20" stroke="#2F4A0C" stroke-width="4" fill="none"/><path d="M5.1,186.9 Q5.5,166.6 5.8,155.4" stroke="url(#gf)" stroke-width="5.4" fill="none" stroke-linecap="round"/><path d="M5.1,186.9 Q27.8,191.5 50.5,221.2" stroke="url(#gf)" stroke-width="5.4" fill="none" stroke-linecap="round"/><path d="M10.6,174.3 Q11.3,152.4 12.1,140.7" stroke="url(#gf)" stroke-width="5.2" fill="none" stroke-linecap="round"/><path d="M10.6,174.3 Q34.6,179.9 58.7,211.5" stroke="url(#gf)" stroke-width="5.2" fill="none" stroke-linecap="round"/><path d="M16.2,162.2 Q17.4,138.7 18.6,126.5" stroke="url(#gf)" stroke-width="5.1" fill="none" stroke-linecap="round"/><path d="M16.2,162.2 Q41.6,168.7 67.0,202.5" stroke="url(#gf)" stroke-width="5.1" fill="none" stroke-linecap="round"/><path d="M22.2,150.6 Q23.9,125.5 25.6,112.8" stroke="url(#gf)" stroke-width="5.0" fill="none" stroke-linecap="round"/><path d="M22.2,150.6 Q48.9,158.1 75.6,194.0" stroke="url(#gf)" stroke-width="5.0" fill="none" stroke-linecap="round"/><path d="M28.5,139.4 Q30.7,112.8 32.9,99.7" stroke="url(#gf)" stroke-width="4.9" fill="none" stroke-linecap="round"/><path d="M28.5,139.4 Q56.5,148.0 84.5,186.0" stroke="url(#gf)" stroke-width="4.9" fill="none" stroke-linecap="round"/><path d="M35.0,128.8 Q37.8,100.6 40.6,87.0" stroke="url(#gf)" stroke-width="4.8" fill="none" stroke-linecap="round"/><path d="M35.0,128.8 Q64.3,138.4 93.5,178.7" stroke="url(#gf)" stroke-width="4.8" fill="none" stroke-linecap="round"/><path d="M41.8,118.6 Q45.3,88.8 48.7,74.9" stroke="url(#gf)" stroke-width="4.6" fill="none" stroke-linecap="round"/><path d="M41.8,118.6 Q72.3,129.4 102.8,171.9" stroke="url(#gf)" stroke-width="4.6" fill="none" stroke-linecap="round"/><path d="M48.9,108.9 Q53.0,77.6 57.1,63.2" stroke="url(#gf)" stroke-width="4.5" fill="none" stroke-linecap="round"/><path d="M48.9,108.9 Q80.6,120.8 112.4,165.6" stroke="url(#gf)" stroke-width="4.5" fill="none" stroke-linecap="round"/><path d="M56.2,99.7 Q61.1,66.9 65.9,52.1" stroke="url(#gf)" stroke-width="4.4" fill="none" stroke-linecap="round"/><path d="M56.2,99.7 Q89.2,112.8 122.1,159.9" stroke="url(#gf)" stroke-width="4.4" fill="none" stroke-linecap="round"/><path d="M63.9,91.0 Q69.5,56.7 75.1,41.5" stroke="url(#gf)" stroke-width="4.2" fill="none" stroke-linecap="round"/><path d="M63.9,91.0 Q98.0,105.3 132.0,154.8" stroke="url(#gf)" stroke-width="4.2" fill="none" stroke-linecap="round"/><path d="M71.8,82.7 Q78.1,47.6 84.4,32.2" stroke="url(#gf)" stroke-width="4.1" fill="none" stroke-linecap="round"/><path d="M71.8,82.7 Q106.5,98.1 141.1,149.2" stroke="url(#gf)" stroke-width="4.1" fill="none" stroke-linecap="round"/><path d="M80.0,75.0 Q86.6,41.5 93.2,26.7" stroke="url(#gf)" stroke-width="4.0" fill="none" stroke-linecap="round"/><path d="M80.0,75.0 Q113.0,90.0 145.9,139.7" stroke="url(#gf)" stroke-width="4.0" fill="none" stroke-linecap="round"/><path d="M88.5,67.7 Q95.3,35.9 102.2,21.6" stroke="url(#gf)" stroke-width="3.9" fill="none" stroke-linecap="round"/><path d="M88.5,67.7 Q119.8,82.4 151.1,130.7" stroke="url(#gf)" stroke-width="3.9" fill="none" stroke-linecap="round"/><path d="M97.2,61.0 Q104.3,30.8 111.3,17.1" stroke="url(#gf)" stroke-width="3.8" fill="none" stroke-linecap="round"/><path d="M97.2,61.0 Q126.9,75.3 156.6,122.0" stroke="url(#gf)" stroke-width="3.8" fill="none" stroke-linecap="round"/><path d="M106.2,54.7 Q113.4,26.2 120.6,13.0" stroke="url(#gf)" stroke-width="3.6" fill="none" stroke-linecap="round"/><path d="M106.2,54.7 Q134.3,68.6 162.4,113.7" stroke="url(#gf)" stroke-width="3.6" fill="none" stroke-linecap="round"/><path d="M115.6,48.9 Q122.9,22.1 130.2,9.4" stroke="url(#gf)" stroke-width="3.5" fill="none" stroke-linecap="round"/><path d="M115.6,48.9 Q142.0,62.3 168.5,105.8" stroke="url(#gf)" stroke-width="3.5" fill="none" stroke-linecap="round"/><path d="M125.1,43.6 Q132.5,18.4 139.9,6.3" stroke="url(#gf)" stroke-width="3.4" fill="none" stroke-linecap="round"/><path d="M125.1,43.6 Q150.0,56.5 174.9,98.4" stroke="url(#gf)" stroke-width="3.4" fill="none" stroke-linecap="round"/><path d="M135.0,38.8 Q142.4,15.3 149.7,3.7" stroke="url(#gf)" stroke-width="3.2" fill="none" stroke-linecap="round"/><path d="M135.0,38.8 Q158.3,51.1 181.6,91.3" stroke="url(#gf)" stroke-width="3.2" fill="none" stroke-linecap="round"/><path d="M145.1,34.4 Q152.5,12.6 159.8,1.5" stroke="url(#gf)" stroke-width="3.1" fill="none" stroke-linecap="round"/><path d="M145.1,34.4 Q166.9,46.1 188.7,84.6" stroke="url(#gf)" stroke-width="3.1" fill="none" stroke-linecap="round"/><path d="M155.6,30.6 Q162.8,10.4 170.0,-0.1" stroke="url(#gf)" stroke-width="3.0" fill="none" stroke-linecap="round"/><path d="M155.6,30.6 Q175.8,41.6 196.0,78.4" stroke="url(#gf)" stroke-width="3.0" fill="none" stroke-linecap="round"/><path d="M166.2,27.2 Q173.4,8.6 180.5,-1.4" stroke="url(#gf)" stroke-width="2.9" fill="none" stroke-linecap="round"/><path d="M166.2,27.2 Q185.0,37.6 203.8,72.5" stroke="url(#gf)" stroke-width="2.9" fill="none" stroke-linecap="round"/><path d="M177.2,24.3 Q184.2,7.4 191.1,-2.1" stroke="url(#gf)" stroke-width="2.8" fill="none" stroke-linecap="round"/><path d="M177.2,24.3 Q194.5,34.0 211.8,67.1" stroke="url(#gf)" stroke-width="2.8" fill="none" stroke-linecap="round"/><path d="M188.5,21.9 Q195.2,6.6 201.9,-2.4" stroke="url(#gf)" stroke-width="2.6" fill="none" stroke-linecap="round"/><path d="M188.5,21.9 Q204.3,30.8 220.2,62.0" stroke="url(#gf)" stroke-width="2.6" fill="none" stroke-linecap="round"/></svg><svg class="fruto" style="left:20px;top:903px;width:44px;height:44px" viewBox="0 0 40 40"><defs><radialGradient id="gb" cx=".35" cy=".3" r=".75"><stop offset="0" stop-color="#6B3A72"/><stop offset=".45" stop-color="#2A0E2C"/><stop offset="1" stop-color="#0E040F"/></radialGradient></defs><circle cx="20" cy="20" r="18" fill="url(#gb)"/><ellipse cx="14" cy="12" rx="5" ry="3" fill="#fff" opacity=".35"/><path d="M20,4 l2,3 l3,-1 l-1,3 l3,2 l-4,1 l-3,-1 l-3,1 l-4,-1 l3,-2 l-1,-3 l3,1 z" fill="#3B2410" opacity=".85"/></svg><svg class="fruto" style="left:58px;top:920px;width:36px;height:36px" viewBox="0 0 40 40"><defs><radialGradient id="gb" cx=".35" cy=".3" r=".75"><stop offset="0" stop-color="#6B3A72"/><stop offset=".45" stop-color="#2A0E2C"/><stop offset="1" stop-color="#0E040F"/></radialGradient></defs><circle cx="20" cy="20" r="18" fill="url(#gb)"/><ellipse cx="14" cy="12" rx="5" ry="3" fill="#fff" opacity=".35"/><path d="M20,4 l2,3 l3,-1 l-1,3 l3,2 l-4,1 l-3,-1 l-3,1 l-4,-1 l3,-2 l-1,-3 l3,1 z" fill="#3B2410" opacity=".85"/></svg><svg class="fruto" style="left:36px;top:930px;width:30px;height:30px" viewBox="0 0 40 40"><defs><radialGradient id="gb" cx=".35" cy=".3" r=".75"><stop offset="0" stop-color="#6B3A72"/><stop offset=".45" stop-color="#2A0E2C"/><stop offset="1" stop-color="#0E040F"/></radialGradient></defs><circle cx="20" cy="20" r="18" fill="url(#gb)"/><ellipse cx="14" cy="12" rx="5" ry="3" fill="#fff" opacity=".35"/><path d="M20,4 l2,3 l3,-1 l-1,3 l3,2 l-4,1 l-3,-1 l-3,1 l-4,-1 l3,-2 l-1,-3 l3,1 z" fill="#3B2410" opacity=".85"/></svg><svg class="fruto" style="left:1005px;top:898px;width:44px;height:44px" viewBox="0 0 40 40"><defs><radialGradient id="gb" cx=".35" cy=".3" r=".75"><stop offset="0" stop-color="#6B3A72"/><stop offset=".45" stop-color="#2A0E2C"/><stop offset="1" stop-color="#0E040F"/></radialGradient></defs><circle cx="20" cy="20" r="18" fill="url(#gb)"/><ellipse cx="14" cy="12" rx="5" ry="3" fill="#fff" opacity=".35"/><path d="M20,4 l2,3 l3,-1 l-1,3 l3,2 l-4,1 l-3,-1 l-3,1 l-4,-1 l3,-2 l-1,-3 l3,1 z" fill="#3B2410" opacity=".85"/></svg><svg class="fruto" style="left:1040px;top:918px;width:34px;height:34px" viewBox="0 0 40 40"><defs><radialGradient id="gb" cx=".35" cy=".3" r=".75"><stop offset="0" stop-color="#6B3A72"/><stop offset=".45" stop-color="#2A0E2C"/><stop offset="1" stop-color="#0E040F"/></radialGradient></defs><circle cx="20" cy="20" r="18" fill="url(#gb)"/><ellipse cx="14" cy="12" rx="5" ry="3" fill="#fff" opacity=".35"/><path d="M20,4 l2,3 l3,-1 l-1,3 l3,2 l-4,1 l-3,-1 l-3,1 l-4,-1 l3,-2 l-1,-3 l3,1 z" fill="#3B2410" opacity=".85"/></svg><svg class="fruto" style="left:985px;top:926px;width:28px;height:28px" viewBox="0 0 40 40"><defs><radialGradient id="gb" cx=".35" cy=".3" r=".75"><stop offset="0" stop-color="#6B3A72"/><stop offset=".45" stop-color="#2A0E2C"/><stop offset="1" stop-color="#0E040F"/></radialGradient></defs><circle cx="20" cy="20" r="18" fill="url(#gb)"/><ellipse cx="14" cy="12" rx="5" ry="3" fill="#fff" opacity=".35"/><path d="M20,4 l2,3 l3,-1 l-1,3 l3,2 l-4,1 l-3,-1 l-3,1 l-4,-1 l3,-2 l-1,-3 l3,1 z" fill="#3B2410" opacity=".85"/></svg>
 <div class="fila"><div class="item i1"><div class="caixa"><img src="../briefing-delivery/material/caixa-1l-estudio-recorte.webp" alt="Caixa 1 litro"><div class="sombra"></div></div><svg class="barbante" viewBox="0 0 30 40" preserveAspectRatio="none"><path d="M15,0 C 9,12 21,24 15,40" stroke="#B08A55" stroke-width="3" fill="none" stroke-linecap="round"/><path d="M15,0 C 9,12 21,24 15,40" stroke="#7A5A30" stroke-width="1" stroke-dasharray="2 3" fill="none"/></svg><div class="etiqueta"><div class="corpo"></div><svg class="fibra2" xmlns="http://www.w3.org/2000/svg" preserveAspectRatio="none"><filter id="f1"><feTurbulence type="fractalNoise" baseFrequency="0.06" numOctaves="4" seed="5"/><feColorMatrix values="0 0 0 0 0.55  0 0 0 0 0.42  0 0 0 0 0.25  0 0 0 0.55 0"/></filter><rect width="100%" height="100%" filter="url(#f1)"/></svg><div class="furo"></div><div class="preco"><span class="lit">1L</span><span class="rs">R$</span><span class="num">25</span></div></div></div><div class="item i2"><div class="caixa"><img src="../briefing-delivery/material/caixa-2l-estudio-recorte.webp" alt="Caixa 2 litros"><div class="sombra"></div></div><svg class="barbante" viewBox="0 0 30 40" preserveAspectRatio="none"><path d="M15,0 C 9,12 21,24 15,40" stroke="#B08A55" stroke-width="3" fill="none" stroke-linecap="round"/><path d="M15,0 C 9,12 21,24 15,40" stroke="#7A5A30" stroke-width="1" stroke-dasharray="2 3" fill="none"/></svg><div class="etiqueta"><div class="corpo"></div><svg class="fibra2" xmlns="http://www.w3.org/2000/svg" preserveAspectRatio="none"><filter id="f2"><feTurbulence type="fractalNoise" baseFrequency="0.06" numOctaves="4" seed="6"/><feColorMatrix values="0 0 0 0 0.55  0 0 0 0 0.42  0 0 0 0 0.25  0 0 0 0.55 0"/></filter><rect width="100%" height="100%" filter="url(#f2)"/></svg><div class="furo"></div><div class="preco"><span class="lit">2L</span><span class="rs">R$</span><span class="num">45</span></div></div></div><div class="item i5"><div class="caixa"><img src="../briefing-delivery/material/caixa-5l-estudio-recorte.webp" alt="Caixa 5 litros"><div class="sombra"></div></div><svg class="barbante" viewBox="0 0 30 40" preserveAspectRatio="none"><path d="M15,0 C 9,12 21,24 15,40" stroke="#B08A55" stroke-width="3" fill="none" stroke-linecap="round"/><path d="M15,0 C 9,12 21,24 15,40" stroke="#7A5A30" stroke-width="1" stroke-dasharray="2 3" fill="none"/></svg><div class="etiqueta"><div class="corpo"></div><svg class="fibra2" xmlns="http://www.w3.org/2000/svg" preserveAspectRatio="none"><filter id="f5"><feTurbulence type="fractalNoise" baseFrequency="0.06" numOctaves="4" seed="9"/><feColorMatrix values="0 0 0 0 0.55  0 0 0 0 0.42  0 0 0 0 0.25  0 0 0 0.55 0"/></filter><rect width="100%" height="100%" filter="url(#f5)"/></svg><div class="furo"></div><div class="preco"><span class="lit">5L</span><span class="rs">R$</span><span class="num">85</span></div></div></div><div class="item i10"><div class="caixa"><img src="../briefing-delivery/material/caixa-10l-estudio-recorte.webp" alt="Caixa 10 litros"><div class="sombra"></div></div><svg class="barbante" viewBox="0 0 30 40" preserveAspectRatio="none"><path d="M15,0 C 9,12 21,24 15,40" stroke="#B08A55" stroke-width="3" fill="none" stroke-linecap="round"/><path d="M15,0 C 9,12 21,24 15,40" stroke="#7A5A30" stroke-width="1" stroke-dasharray="2 3" fill="none"/></svg><div class="etiqueta"><div class="corpo"></div><svg class="fibra2" xmlns="http://www.w3.org/2000/svg" preserveAspectRatio="none"><filter id="f10"><feTurbulence type="fractalNoise" baseFrequency="0.06" numOctaves="4" seed="14"/><feColorMatrix values="0 0 0 0 0.55  0 0 0 0 0.42  0 0 0 0 0.25  0 0 0 0.55 0"/></filter><rect width="100%" height="100%" filter="url(#f10)"/></svg><div class="furo"></div><div class="preco"><span class="lit">10L</span><span class="rs">R$</span><span class="num tres">175</span></div></div></div></div>
-<div class="rodape"><div class="linha-cta"><span class="cta">Peça agora</span><svg class="caminhao" viewBox="0 0 170 100" xmlns="http://www.w3.org/2000/svg"><defs><filter id="mao2"><feTurbulence type="fractalNoise" baseFrequency="0.035" numOctaves="2" seed="5" result="d"/><feDisplacementMap in="SourceGraphic" in2="d" scale="3.5"/></filter></defs>
+<div class="rodape"><div class="area">Entregamos em Cuiabá e Várzea Grande<svg class="seta" style="right:-62px;top:22px" viewBox="0 0 70 56"><path d="M6,8 C 34,6 54,18 58,44" stroke="#FFD34D" stroke-width="4" fill="none" stroke-linecap="round" filter="url(#mao3)"/><path d="M48,36 L58,48 L66,35" stroke="#FFD34D" stroke-width="4" fill="none" stroke-linecap="round" stroke-linejoin="round" filter="url(#mao3)"/><defs><filter id="mao3"><feTurbulence type="fractalNoise" baseFrequency="0.05" numOctaves="2" seed="11" result="d"/><feDisplacementMap in="SourceGraphic" in2="d" scale="2.5"/></filter></defs></svg></div><div class="linha-cta"><span class="cta">Peça agora</span><svg class="caminhao" viewBox="0 0 170 100" xmlns="http://www.w3.org/2000/svg"><defs><filter id="mao2"><feTurbulence type="fractalNoise" baseFrequency="0.035" numOctaves="2" seed="5" result="d"/><feDisplacementMap in="SourceGraphic" in2="d" scale="3.5"/></filter></defs>
  <g filter="url(#mao2)" fill="none" stroke="#FFF7EC" stroke-width="4.5" stroke-linecap="round" stroke-linejoin="round">
   <path d="M8,30 h28 M2,46 h26 M10,62 h20"/>
   <path d="M44,18 h72 v56 h-72 z"/>
@@ -30,5 +30,5 @@
   <circle cx="68" cy="80" r="3.5" fill="#FFF7EC" stroke="none"/><circle cx="138" cy="80" r="3.5" fill="#FFF7EC" stroke="none"/>
  </g>
  <g filter="url(#mao2)"><path d="M54,32 h56 v30 h-56 z" fill="#F5B301" stroke="#FFF7EC" stroke-width="3"/>
- <text x="82" y="52" text-anchor="middle" font-family="Klinko" font-size="10.5" fill="#380C2F">DUPURO</text></g></svg></div><div class="area">Entregamos em Cuiabá e Várzea Grande<svg class="seta" style="right:-58px;top:-44px" viewBox="0 0 70 56"><path d="M60,4 C 66,26 52,44 22,46" stroke="#FFD34D" stroke-width="4" fill="none" stroke-linecap="round" filter="url(#mao3)"/><path d="M30,36 L18,46 L31,53" stroke="#FFD34D" stroke-width="4" fill="none" stroke-linecap="round" stroke-linejoin="round" filter="url(#mao3)"/><defs><filter id="mao3"><feTurbulence type="fractalNoise" baseFrequency="0.05" numOctaves="2" seed="11" result="d"/><feDisplacementMap in="SourceGraphic" in2="d" scale="2.5"/></filter></defs></svg></div><div class="info">Entrega a partir de <i>R$ 5</i> · dupuroacai.com/delivery</div></div>
+ <text x="82" y="52" text-anchor="middle" font-family="Klinko" font-size="10.5" fill="#380C2F">DUPURO</text></g></svg></div><div class="info">Entrega a partir de <i>R$ 5</i> · dupuroacai.com/delivery</div></div>
 </body></html>

diff --git a/marketing/anuncios/delivery-v2/peca.css b/marketing/anuncios/delivery-v2/peca.css
@@ -42,10 +42,10 @@ body { font-family:'Inter',sans-serif; color:var(--cream); position:relative;
 
 .feed { --w:1080px; --h:1350px; --logo-y:40px; --logo-w:170px; --faixa-y:200px; --faixa-h:322px; --titulo-y:228px;
   --t-a:62px; --t-mao:128px; --t-b:50px; --carimbo:150px; --carimbo-x:62px; --carimbo-y:222px;
-  --fila-y:568px; --fila-h:370px; --escala:135px; --ad:124px; --rodape-y:1140px; --cta:46px; --info:28px; }
+  --fila-y:568px; --fila-h:370px; --escala:135px; --ad:124px; --rodape-y:1128px; --cta:46px; --info:28px; }
 .story { --w:1080px; --h:1920px; --logo-y:250px; --logo-w:180px; --faixa-y:450px; --faixa-h:352px; --titulo-y:478px;
   --t-a:68px; --t-mao:140px; --t-b:54px; --carimbo:160px; --carimbo-x:58px; --carimbo-y:462px;
-  --fila-y:770px; --fila-h:390px; --escala:135px; --ad:128px; --rodape-y:1372px; --cta:50px; --info:29px; }
+  --fila-y:770px; --fila-h:390px; --escala:135px; --ad:128px; --rodape-y:1365px; --cta:50px; --info:29px; }
 
 /* ---- ajustes 2026-10-26: etiquetas de papel amarradas, folhas, frutos, rabiscos, caminhãozinho ---- */
 .barbante { position:absolute; top:calc(100% - 6px); left:50%; width:30px; margin-left:-15px; height:var(--fio); overflow:visible; }
@@ -75,7 +75,7 @@ body { font-family:'Inter',sans-serif; color:var(--cream); position:relative;
 
 /* frase à mão perto do caminhão (pedido do Kayo, 2026-10-26) */
 .area { position:relative; font-family:'Caveat Brush'; color:var(--gold-soft); font-size:var(--area); line-height:1;
-  margin-top:10px; transform:rotate(-2deg); text-shadow:0 2px 8px rgba(18,3,15,.6); }
+  margin:0 0 14px; transform:rotate(-2deg); text-shadow:0 2px 8px rgba(18,3,15,.6); }
 .seta { position:absolute; width:70px; height:56px; overflow:visible; }
 .rodape .info { margin-top:12px; }
 .feed  { --area:42px; } .story { --area:46px; }

diff --git a/marketing/anuncios/delivery-v2/gerar.py b/marketing/anuncios/delivery-v2/gerar.py
@@ -85,6 +85,6 @@ def pagina(fmt):
 {CARIMBO}
 {decor}
 <div class="fila">{itens}</div>
-<div class="rodape"><div class="linha-cta"><span class="cta">Peça agora</span>{CAMINHAO}</div><div class="area">Entregamos em Cuiabá e Várzea Grande<svg class="seta" style="right:-58px;top:-44px" viewBox="0 0 70 56"><path d="M60,4 C 66,26 52,44 22,46" stroke="#FFD34D" stroke-width="4" fill="none" stroke-linecap="round" filter="url(#mao3)"/><path d="M30,36 L18,46 L31,53" stroke="#FFD34D" stroke-width="4" fill="none" stroke-linecap="round" stroke-linejoin="round" filter="url(#mao3)"/><defs><filter id="mao3"><feTurbulence type="fractalNoise" baseFrequency="0.05" numOctaves="2" seed="11" result="d"/><feDisplacementMap in="SourceGraphic" in2="d" scale="2.5"/></filter></defs></svg></div><div class="info">Entrega a partir de <i>R$ 5</i> · dupuroacai.com/delivery</div></div>
+<div class="rodape"><div class="area">Entregamos em Cuiabá e Várzea Grande<svg class="seta" style="right:-62px;top:22px" viewBox="0 0 70 56"><path d="M6,8 C 34,6 54,18 58,44" stroke="#FFD34D" stroke-width="4" fill="none" stroke-linecap="round" filter="url(#mao3)"/><path d="M48,36 L58,48 L66,35" stroke="#FFD34D" stroke-width="4" fill="none" stroke-linecap="round" stroke-linejoin="round" filter="url(#mao3)"/><defs><filter id="mao3"><feTurbulence type="fractalNoise" baseFrequency="0.05" numOctaves="2" seed="11" result="d"/><feDisplacementMap in="SourceGraphic" in2="d" scale="2.5"/></filter></defs></svg></div><div class="linha-cta"><span class="cta">Peça agora</span>{CAMINHAO}</div><div class="info">Entrega a partir de <i>R$ 5</i> · dupuroacai.com/delivery</div></div>
 </body></html>'''
 for fmt in ['feed','story']: open(fmt+'.html','w').write(pagina(fmt))
